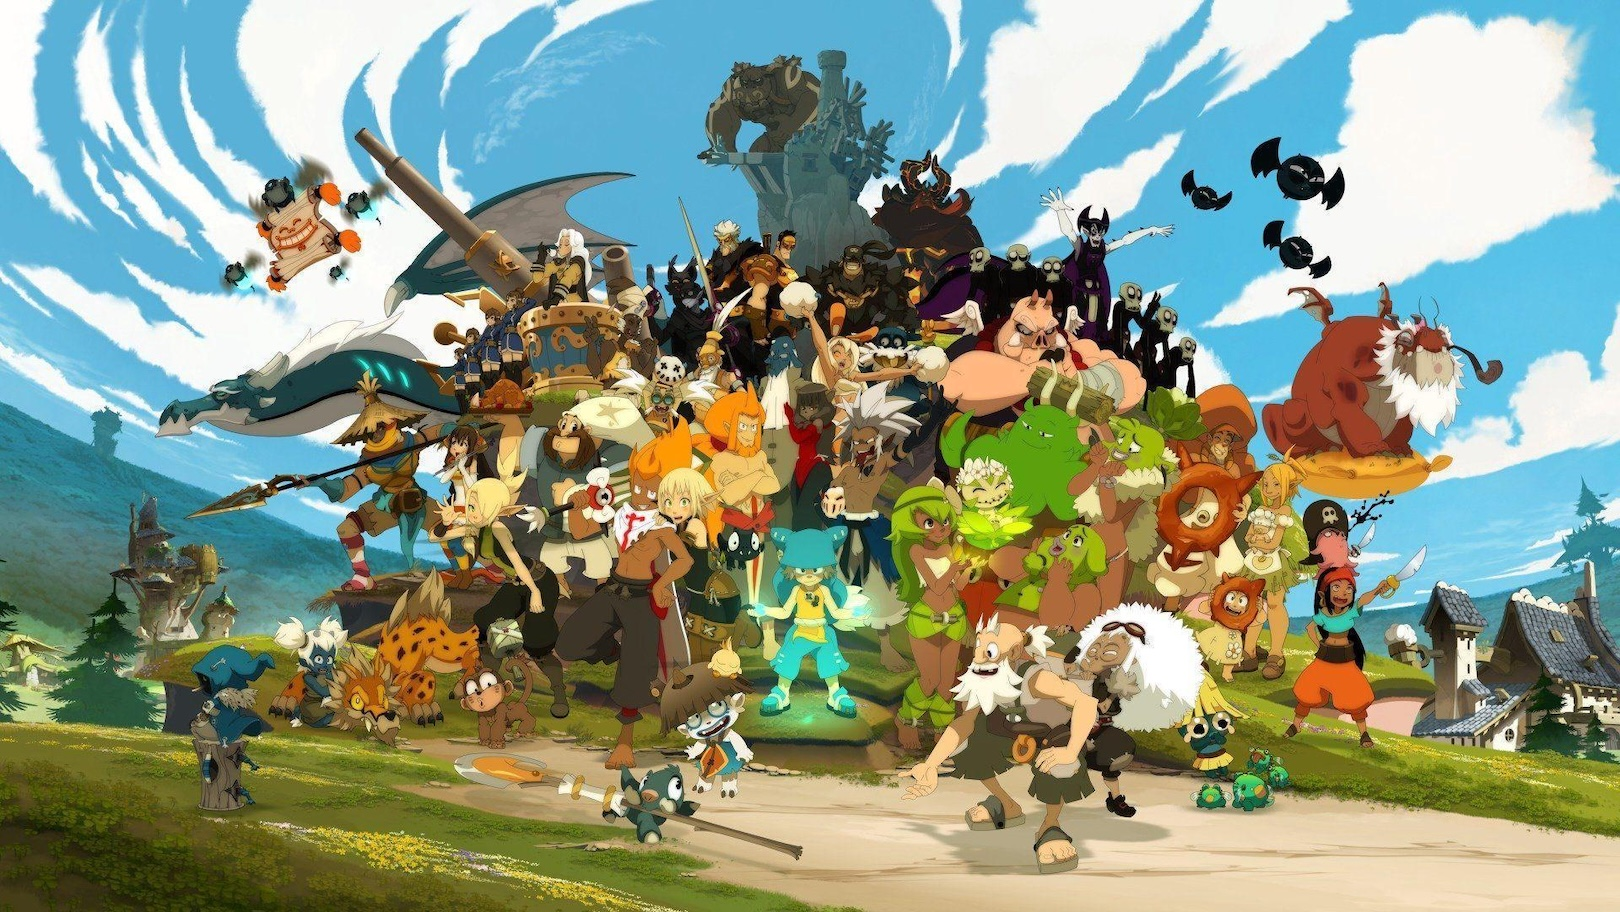
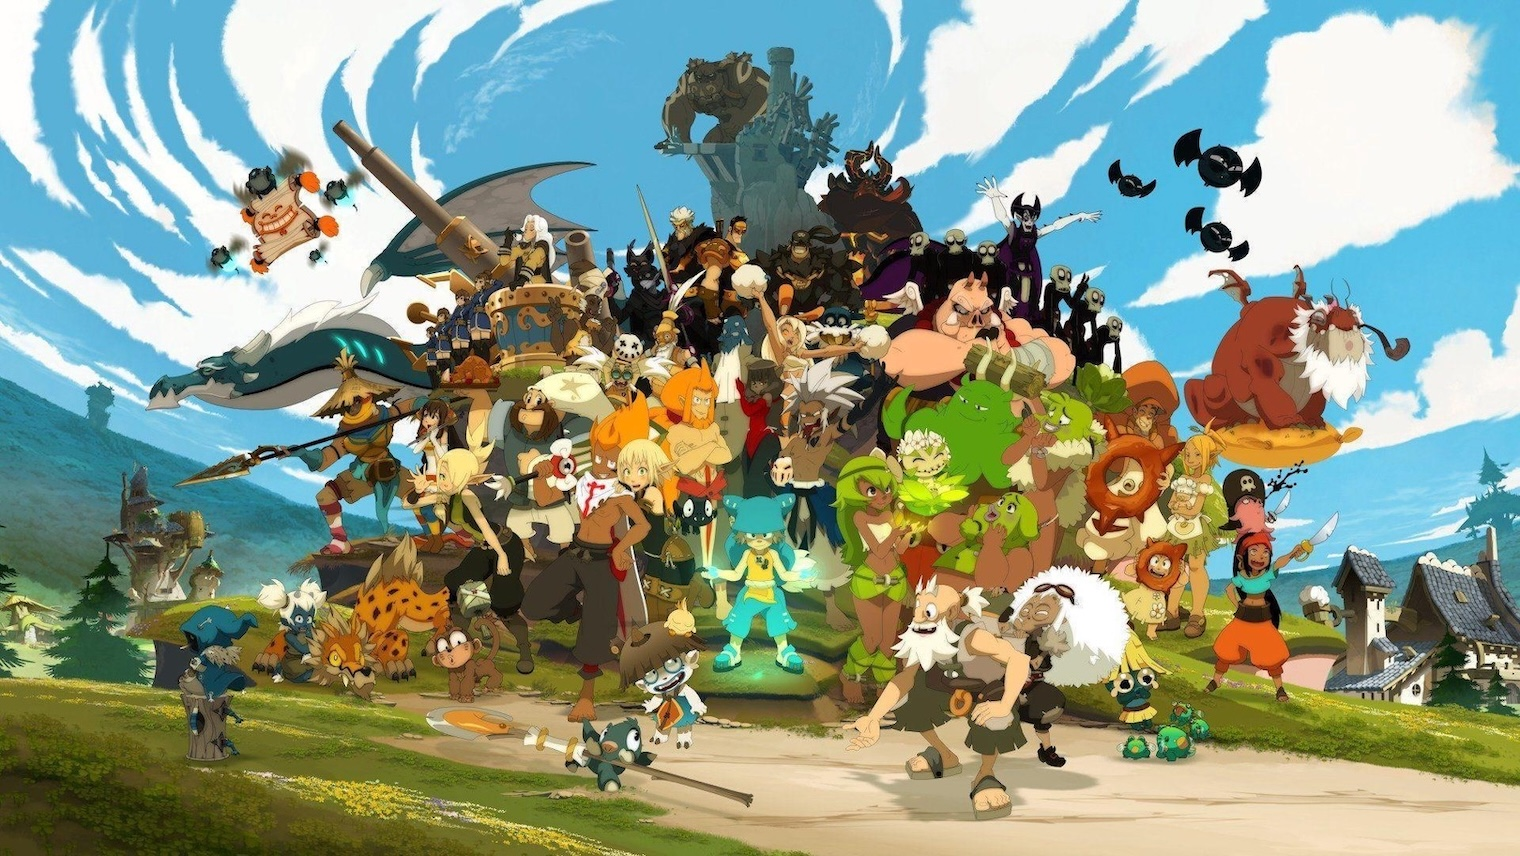
Carousel Modifier
Les Image ont été modifer en taille, le style a obtenue trois class (une pour le titre, une pour le descriptif et une pour le carousel)

diff --git a/index.html b/index.html
@@ -27,7 +27,7 @@
     
     
 
-    <div style="z-index: 1;">
+    <div id="CarouselAnkama">
         <div id="carouselExampleAutoplaying" class="carousel slide" data-bs-ride="carousel">
         
             <div class="carousel-inner">
@@ -54,9 +54,14 @@
     </div>
 
     <div>
-        <div style="text-align: center; color:white; background-color: black;"><h1> Bienvenu sur la page d'acceuil d'infokama</h1>
-        <h style="text-align: justify; color:black; background-color: white;"> Bienvenue sur notre site, un espace entièrement dédié à l'exploration des dynamiques économiques, de la vie en entreprise, et de la fascinante culture d'Ankama. Ici, nous plongeons dans les enjeux contemporains de l'économie globale tout en mettant en lumière les spécificités du monde professionnel, des stratégies d'entreprise, et des processus créatifs propres à Ankama. Découvrez avec nous comment cette entreprise emblématique réussit à allier innovation, créativité et gestion, tout en influençant profondément les secteurs du jeu vidéo, de l’animation et de l’édition.</h>
+        <div id="Titre_Page">
+            <h> Bienvenu sur la page d'acceuil d'infokama</h1>
         </div>
+        <br><br>
+        <div id="Descriptif">
+            <h> Bienvenue sur notre site, un espace entièrement dédié à l'exploration des dynamiques économiques, de la vie en entreprise, et de la fascinante culture d'Ankama. Ici, nous plongeons dans les enjeux contemporains de l'économie globale tout en mettant en lumière les spécificités du monde professionnel, des stratégies d'entreprise, et des processus créatifs propres à Ankama. Découvrez avec nous comment cette entreprise emblématique réussit à allier innovation, créativité et gestion, tout en influençant profondément les secteurs du jeu vidéo, de l’animation et de l’édition.</h>
+        </div>
+        <br><br><br>
     </div>
 
     <script>

diff --git a/styles.css b/styles.css
@@ -7,7 +7,7 @@
 
 body {
 
-    background-image: url('Img/FireWatch.jpg');  
+    /*background-image: url('Img/FireWatch.jpg'); */
     background-attachment: fixed;
     background-position: center; 
     background-repeat: no-repeat; 
@@ -60,6 +60,27 @@ nav.avec-bord{
     text-decoration: underline;
     text-decoration-thickness: 3px;
     text-underline-offset: 5px;
+}
+#CarouselAnkama{
+    z-index: -1;
+}
+
+#Titre_Page{
+    text-align: center; 
+    color:white; 
+    background-color: black;
+    font-size: 45px; 
+    padding:0 1.25em;
+}
+
+#Descriptif{
+    text-align: justify; 
+    color:black; 
+    background-color: white; 
+    font-size: 20px;
+    padding:0 1.25em;
+    width: 100%
+    
 }
 
 
